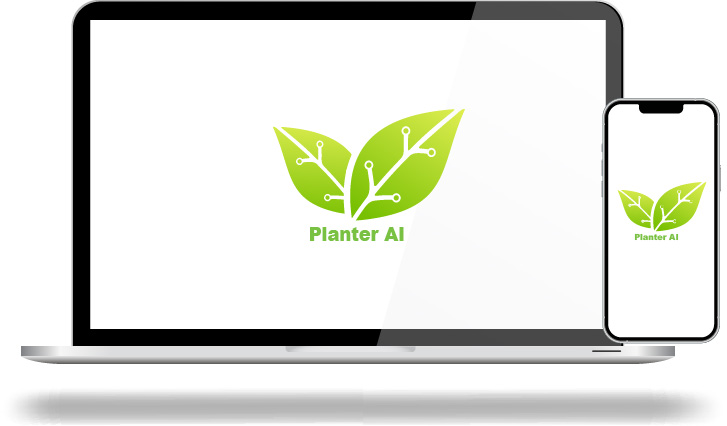
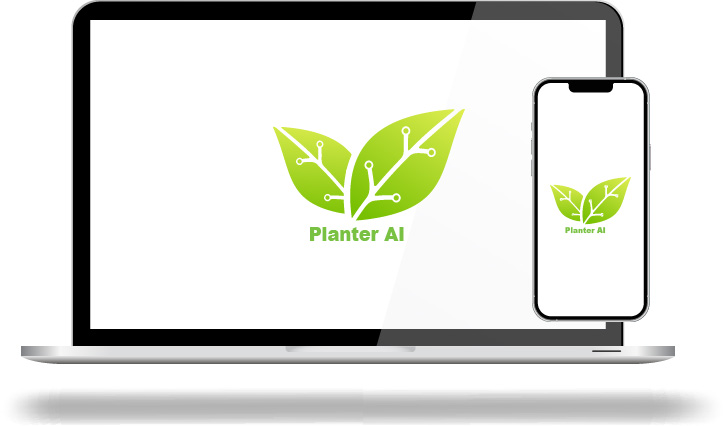
new edits to theme

Changed region(s): [[0.7263, 0.1831, 0.9986, 0.8239]]

diff --git a/site/index.html b/site/index.html
@@ -120,7 +120,7 @@
 <script src="https://cdn.jsdelivr.net/npm/clipboard@2.0.10/dist/clipboard.min.js"></script>
 
 <h1 id="metaiot">MetaIoT</h1>
-<p><img align="center" alt="Image title" height="400" src="planterai.jpg" width="400" />
+<p><img align="center" alt="Image title" height="400" src="planterai3.jpg" width="275" />
 <br>
 <br></p>
 <p>For Organization Information <a href="https://www.wolfberryllc.com">wolfberryllc.com</a>.
@@ -174,7 +174,7 @@
 <h4 id="click-the-correct-app-store-for-downloading-the-apps">Click the correct app store for downloading the apps</h4>
 <p><br>
 <br></p>
-<p><img align="center" alt="Image title" height="350" src="planterai2.jpg" width="550" />
+<p><img align="center" alt="Image title" height="350" src="planterai2.jpg" width="600" />
 <br>
 <br>
 <a href="http://google.com.au/" rel="some text"><img alt="App Store" src="appstore.jpg" /></a><a href="http://google.com.au/" rel="some text"><img alt="Google Play" src="googleplay.jpg" /></a><a href="http://google.com.au/" rel="some text"><img align="center" alt="Google Play" height="150" src="snapcraft.png" width="200" /></a></p>
@@ -290,5 +290,5 @@ docs/
 
 <!--
 MkDocs version : 1.3.1
-Build Date UTC : 2022-09-18 13:23:47.815783+00:00
+Build Date UTC : 2022-09-18 13:27:51.464474+00:00
 -->
